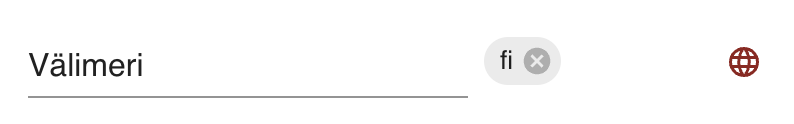
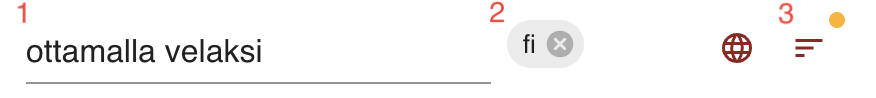
documentation edited up to the spaced repetition quiz

diff --git a/docs/index.html b/docs/index.html
@@ -439,9 +439,12 @@
         whistles.
       </p>
       <h2>Installation</h2>
+      To install Amanuensis, you have two options:
+      <h3>Chrome Web Store</h3>
       <p>
-        To install Amanuensis, go to
-        <a href="https://chromewebstore.google.com/detail/amanuensis/hcclomiidfnghjhdidhhhbpdlhnbjjgg">its page</a>
+        Go to
+        <a href="https://chromewebstore.google.com/detail/amanuensis/hcclomiidfnghjhdidhhhbpdlhnbjjgg">Amanuensis's
+          page</a>
         in the Chrome Web Store and click the "Add to Chrome" button.
       </p>
       <p>
@@ -450,6 +453,19 @@
         the extension so it is available whenever you happen to be looking at
         a web page.
       </p>
+      <p>
+        For some reason, when installed from the Chrome Store the app
+        sometimes gets assigned command-shift-A as its keyboard trigger rather
+        than the control-shift-A. The former conflicts with a keyboard
+        shortcut already present in Chrome. To fix this, type
+        "Chrome://extensions/shortcuts" in the address bar. Find Amanuensis,
+        and reset the key combination.
+        <a title="how to edit extension keyboard shortcuts"
+          href="https://www.fleetingnotes.app/docs/Reference/Enable%20keyboard%20shortcuts%20for%20browser%20extensions">This
+          note</a>
+        may help.
+      </p>
+      <h3>Install from source</h3>
       <p>
         Amanuensis is open source. If you are feeling adventurous you can
         <a href="https://docs.github.com/en/repositories/creating-and-managing-repositories/cloning-a-repository"
@@ -468,7 +484,8 @@
       </p>
       <p>
         To run the build script, you must have
-        <a href="https://nodejs.org/en/download" title="how to install node">installed node</a>. Then, in a terminal, cd
+        <a href="https://nodejs.org/en/download" title="how to install node">installed node</a>. Then, in a
+        terminal, cd
         to the install directory and run
         <code>npm run release-build</code> (or <code>npm run build</code> if
         you want to set breakpoints and inspect human-readable code). Then go
@@ -476,18 +493,7 @@
         and select the dist directory, which will have the output of the build
         scripts in it.<span class="fn">This is, in fact, how I work on Amanuensis.</span>
       </p>
-      <p>
-        For some reason, when installed from the Chrome Store the app
-        sometimes gets assigned command-shift-A as its keyboard trigger rather
-        than the control-shift-A. The former conflicts with a keyboard
-        shortcut already present in Chrome. To fix this, type
-        "Chrome://extensions/shortcuts" in the address bar. Find Amanuensis,
-        and reset the key combination.
-        <a title="how to edit extension keyboard shortcuts"
-          href="https://www.fleetingnotes.app/docs/Reference/Enable%20keyboard%20shortcuts%20for%20browser%20extensions">This
-          note</a>
-        may help.
-      </p>
+      </h2>
       <h2>Amuensis's Bits and Pieces</h2>
       <h3>Design Constraints</h3>
       <p>
@@ -584,7 +590,7 @@
       </p>
       <p>
         The flashcards in the <a href="#quiz">quizzes</a> contain the lemma
-        and language on one side and the lemma note and tags on the other. Any
+        and language on one side and the lemma note/gloss and tags on the other. Any
         elaboration is excluded.
       </p>
       <figure id="tag-figure">
@@ -675,6 +681,11 @@
         the page has changed since you recorded the citation, highighting the
         original phrase in its original context may not be possible.
       </p>
+      <p>If visiting a citation involves changing the <a href="https://en.wikipedia.org/wiki/Domain_name">domain</a> of
+        the current tab, Amanuensis will likely close. This is a limitation of
+        its being a Chrome extension. If you reopen Amanuensis at this point,
+        it will open to the <a href="#citations-on-page-tab">citations on page tab</a>, which will allow you to find the
+        note you are interested in and continue from where you were when Amanuensis closed.</p>
       <h5>citation note</h5>
       <p>
         Each citation has its own note in which you can record anything
@@ -694,7 +705,9 @@
       </figure>
       <p>
         I often use the citation note and tags to keep track of puzzles to
-        solve later. See <a href="#citation-note-and-tags">the figure</a>.
+        solve later. See <a href="#citation-note-and-tags">the figure</a>. Here I have added my &ldquo;?
+        &rdquo; tag to the citation to mark it as something about which I have an unanswered question. I can click on
+        the tag to search for all unanswered questions, or I can search for this tag in the dictionary tab.
       </p>
       <h3 id="dictionary">Dictionary</h3>
       <figure id="dictionary-figure">
@@ -733,7 +746,7 @@
       </figure>
       <h4>search results</h4>
       <p>
-        Every search produces zero or more search results. These are basically
+        Every search produces some number of search results. These are basically
         abbreviated notes. One may click on them to view them in full. See
         <a href="#results-figure">the figure</a> for a sample search result.
       </p>
@@ -743,7 +756,7 @@
         note currently displayed in the <a href="#note">note tab</a>, link it
         to that note, or delete it from the database. The more destructive of
         these actions, merging and deletion, require confirmation and, in the
-        case of mergin, possible editing to complete.
+        case of merging, possible editing to complete.
       </p>
       <figure id="search-figure">
         <img src="images/search.png" alt="the free search form" />
@@ -803,11 +816,11 @@
         to apply a different sort order. This is the purpose of the icon
         showing three horizontal bars of descending size (<a href="#sort-figure">the figure</a>). I frequently use the
         last sort order, by time of last update
-        descending, to find where I last left off.
+        descending, to find where I left off when last using Amanuensis.
       </p>
       <figure id="similar-figure">
         <img src="images/similar.png" alt="form for search for similar phrases" />
-        <figcaption>The similar phrase search form.</figcaption>
+        <figcaption>The similar phrase search form: 1) form, 2) language(s), 3) string similarity metric</figcaption>
       </figure>
       <h4 id="similar">similar phrase</h4>
       <p>
@@ -826,12 +839,18 @@
         this pattern of use, the similar phrase search form has only two
         fields: lemma and language.
       </p>
+      <figure id="similarity-metric-figure">
+        <img src="images/similarity_menu.png" alt="dropdown that shows the string similarity metric" />
+        <figcaption>The string similarity metric dropdown.</figcaption>
+      </figure>
       <p>
         Amanuensis must apply a string similarity metric to do a phrase
         similarity search. There are many of these with different virtues and
         flaws. Some work better than others for a given language. For this
         reason, the simularity metric is
-        <a href="#distance-metrics" title="how to configure the string similarity metric">configurable</a>.
+        <a href="#distance-metrics" title="how to configure the string similarity metric">configurable</a> and
+        selectable in the similar phrase search form (<a href="#similarity-metric-figure">the figure</a>). Each of the
+        metrics is marked with a distinctive color so you can see what metric is in use when the dropdown is not open.
       </p>
       <p>
         One could in principle rank all notes for their similarity to a given
@@ -843,9 +862,9 @@
       </p>
       <figure id="on-page-figure">
         <img src="images/on-page.png" alt="form for searching for notes at a given URL" />
-        <figcaption>Search by URL.</figcaption>
+        <figcaption>To search for the citations on a page, you search by URL.</figcaption>
       </figure>
-      <h4>citations on page</h4>
+      <h4 id="citations-on-page-tab">citations on page</h4>
       <p>
         The form to find citations on a given page is the simplest (<a href="#on-page-figure">the figure</a>). The
         "page" in this case is just the URL, so the only field in the
@@ -859,7 +878,7 @@
         The idea behind
         <a href="https://en.wikipedia.org/wiki/Spaced_repetition">spaced repetition</a>
         is that one can learn a concept <i>most efficiently</i> when one
-        reviews it whne one is about to forget it. If you can catch the memory
+        reviews it when one is about to forget it. If you can catch the memory
         at the moment of disintegration and reconstitute it &mdash; if you
         repeat it after allowing a certain space for it to fade &mdash; you
         can rebuild it stronger without unnecessary drills.
@@ -869,6 +888,11 @@
         predicting when a memory will face &mdash; how much space one should
         allow before repetition.
       </p>
+      <p>I have not made a deep study of this problem. Rather, I observed how <a
+          href="https://apps.ankiweb.net/">Anki</a> seemed to be doing it, mixed this
+        with what seemed sensible to me, and called it good. If you want a more state-of-the-art spaced repetition quiz,
+        I liked Anki. There are other options. My aim in writing Amanuensis was to make a note taking app, not a
+        flashcard app. That being said, I'm quite pleased with Amanuensis's hacked together spaced repetition quiz.</p>
       <h3 id="tags">Tags</h3>
       <figure id="tags-figure">
         <img src="images/tags.png" alt="the tag tab" />
